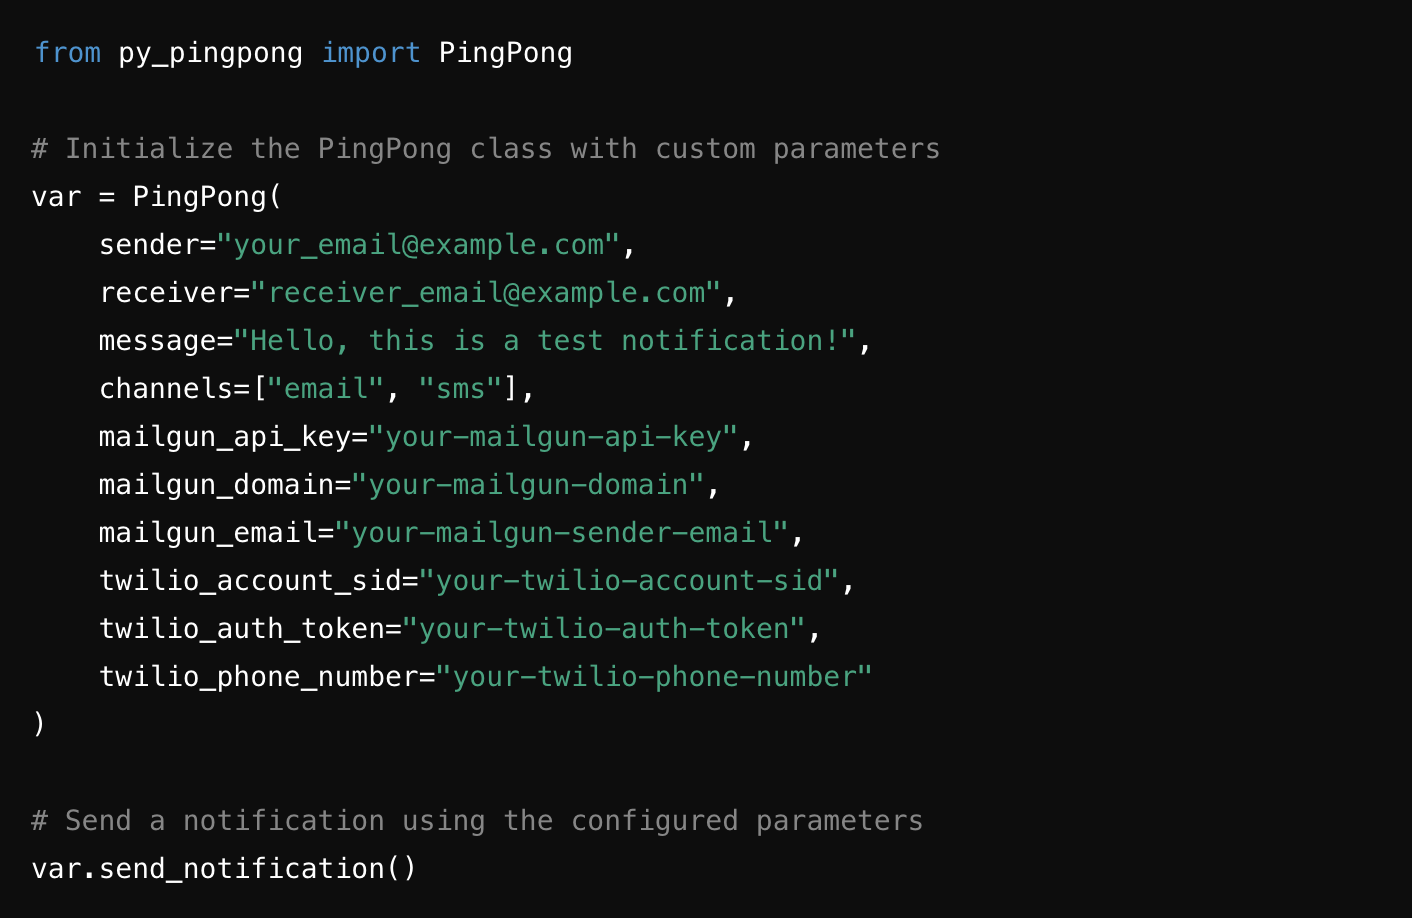
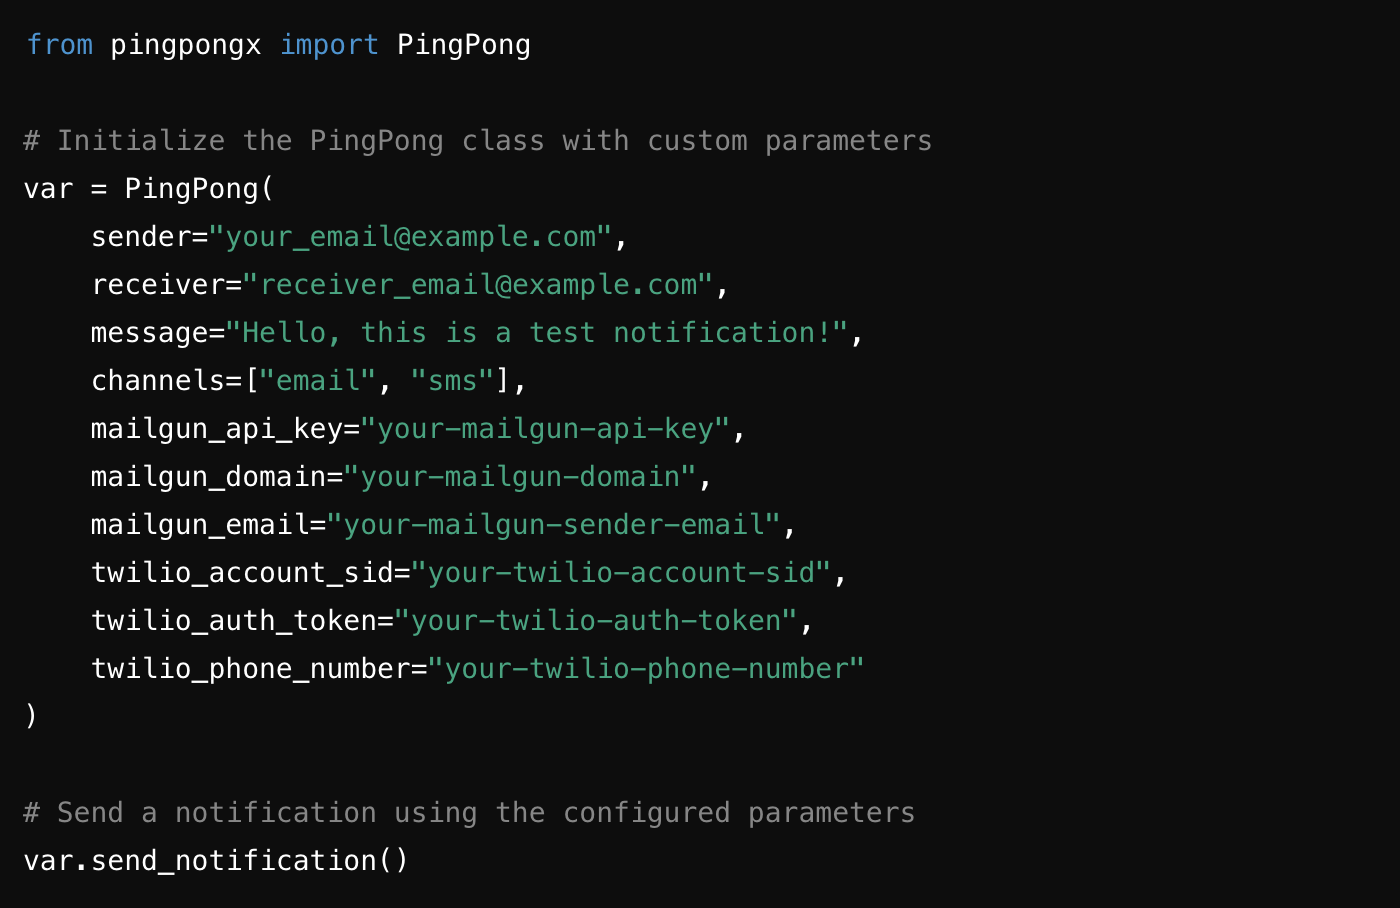
pingpongx published v0.1.0

diff --git a/pingpongx/services/notification.py b/pingpongx/services/notification.py
@@ -1,11 +1,11 @@
 from fastapi import Request
-from py_pingpong.services.auth_middleware import require_auth
-from py_pingpong.services.kafka_consumer import consume_notifications
-from py_pingpong.services.redis_service import add_to_queue
-from py_pingpong.services.kafka_producer import send_event
-from py_pingpong.services.firestore_service import save_notification_log, get_user_preferences, update_user_preferences
-from py_pingpong.utils import generate_notification_id
-from py_pingpong.utils import validate_phone_number, validate_email
+from pingpongx.services.auth_middleware import require_auth
+from pingpongx.services.kafka_consumer import consume_notifications
+from pingpongx.services.redis_service import add_to_queue
+from pingpongx.services.kafka_producer import send_event
+from pingpongx.services.firestore_service import save_notification_log, get_user_preferences, update_user_preferences
+from pingpongx.utils import generate_notification_id
+from pingpongx.utils import validate_phone_number, validate_email
 import time
 import os
 

diff --git a/pingpongx/services/kafka_consumer.py b/pingpongx/services/kafka_consumer.py
@@ -1,9 +1,9 @@
-from py_pingpong.services.email_service import MailgunEmailService
+from pingpongx.services.email_service import MailgunEmailService
 from kafka import KafkaConsumer
-from py_pingpong.utils import validate_email, validate_phone_number, sanitize_topic_name
-from py_pingpong.services.push_service import send_push_notification
-from py_pingpong.services.redis_service import get_from_queue, read_from_queue, delete_data_by_msg
-from py_pingpong.services.sms_service import SmsService
+from pingpongx.utils import validate_email, validate_phone_number, sanitize_topic_name
+from pingpongx.services.push_service import send_push_notification
+from pingpongx.services.redis_service import get_from_queue, read_from_queue, delete_data_by_msg
+from pingpongx.services.sms_service import SmsService
 import json
 import time
 import os

diff --git a/pingpongx/main.py b/pingpongx/main.py
@@ -2,9 +2,9 @@ from fastapi import FastAPI
 from fastapi import Request
 from fastapi.responses import HTMLResponse
 from starlette.templating import Jinja2Templates
-from py_pingpong.routes.notification import router as notification_router
-from py_pingpong.routes.user_preferences import router as preferences_router
-from py_pingpong.routes.auth_routes import router as auth_router
+from pingpongx.routes.notification import router as notification_router
+from pingpongx.routes.user_preferences import router as preferences_router
+from pingpongx.routes.auth_routes import router as auth_router
 
 docs_config = {
     "openapi_url": None,

diff --git a/pingpongx/services/auth_service.py b/pingpongx/services/auth_service.py
@@ -1,10 +1,10 @@
 import os
 from passlib.context import CryptContext
-from py_pingpong.models import SignupRequest, LoginRequest
-from py_pingpong.services.firestore_service import db
+from pingpongx.models import SignupRequest, LoginRequest
+from pingpongx.services.firestore_service import db
 import datetime
 import jwt
-from py_pingpong.utils import validate_phone_number, validate_email
+from pingpongx.utils import validate_phone_number, validate_email
 
 pwd_context = CryptContext(schemes=["bcrypt"], deprecated="auto")
 JWT_SECRET = os.getenv("JWT_SECRET")

diff --git a/pingpongx/services/user_preferences.py b/pingpongx/services/user_preferences.py
@@ -1,4 +1,4 @@
-from py_pingpong.services.firestore_service import get_user_preferences, update_user_preferences, delete_user_preferences
+from pingpongx.services.firestore_service import get_user_preferences, update_user_preferences, delete_user_preferences
 
 
 async def get_preferences(user_id: str):

diff --git a/pingpongx/services/kafka_producer.py b/pingpongx/services/kafka_producer.py
@@ -1,7 +1,7 @@
 import os
 from kafka import KafkaProducer
 from kafka.admin import KafkaAdminClient, NewTopic
-from py_pingpong.utils import sanitize_topic_name
+from pingpongx.utils import sanitize_topic_name
 
 TOPIC_NAME = os.getenv('TOPIC_NAME')
 BROKER = 'kafka:9092'

diff --git a/pingpongx/routes/auth_routes.py b/pingpongx/routes/auth_routes.py
@@ -1,5 +1,5 @@
 from fastapi import APIRouter
-from py_pingpong.services.auth_service import signup, login
+from pingpongx.services.auth_service import signup, login
 
 router = APIRouter()
 

diff --git a/pingpongx/routes/notification.py b/pingpongx/routes/notification.py
@@ -1,5 +1,5 @@
 from fastapi import APIRouter
-from py_pingpong.services.notification import notify
+from pingpongx.services.notification import notify
 
 router = APIRouter()
 

diff --git a/pingpongx/routes/user_preferences.py b/pingpongx/routes/user_preferences.py
@@ -1,5 +1,5 @@
 from fastapi import APIRouter
-from py_pingpong.services import user_preferences
+from pingpongx.services import user_preferences
 
 router = APIRouter()
 

diff --git a/pingpongx/__init__.py b/pingpongx/__init__.py
@@ -1,0 +1,1 @@
+from pingpongx.services.notification import PingPong
